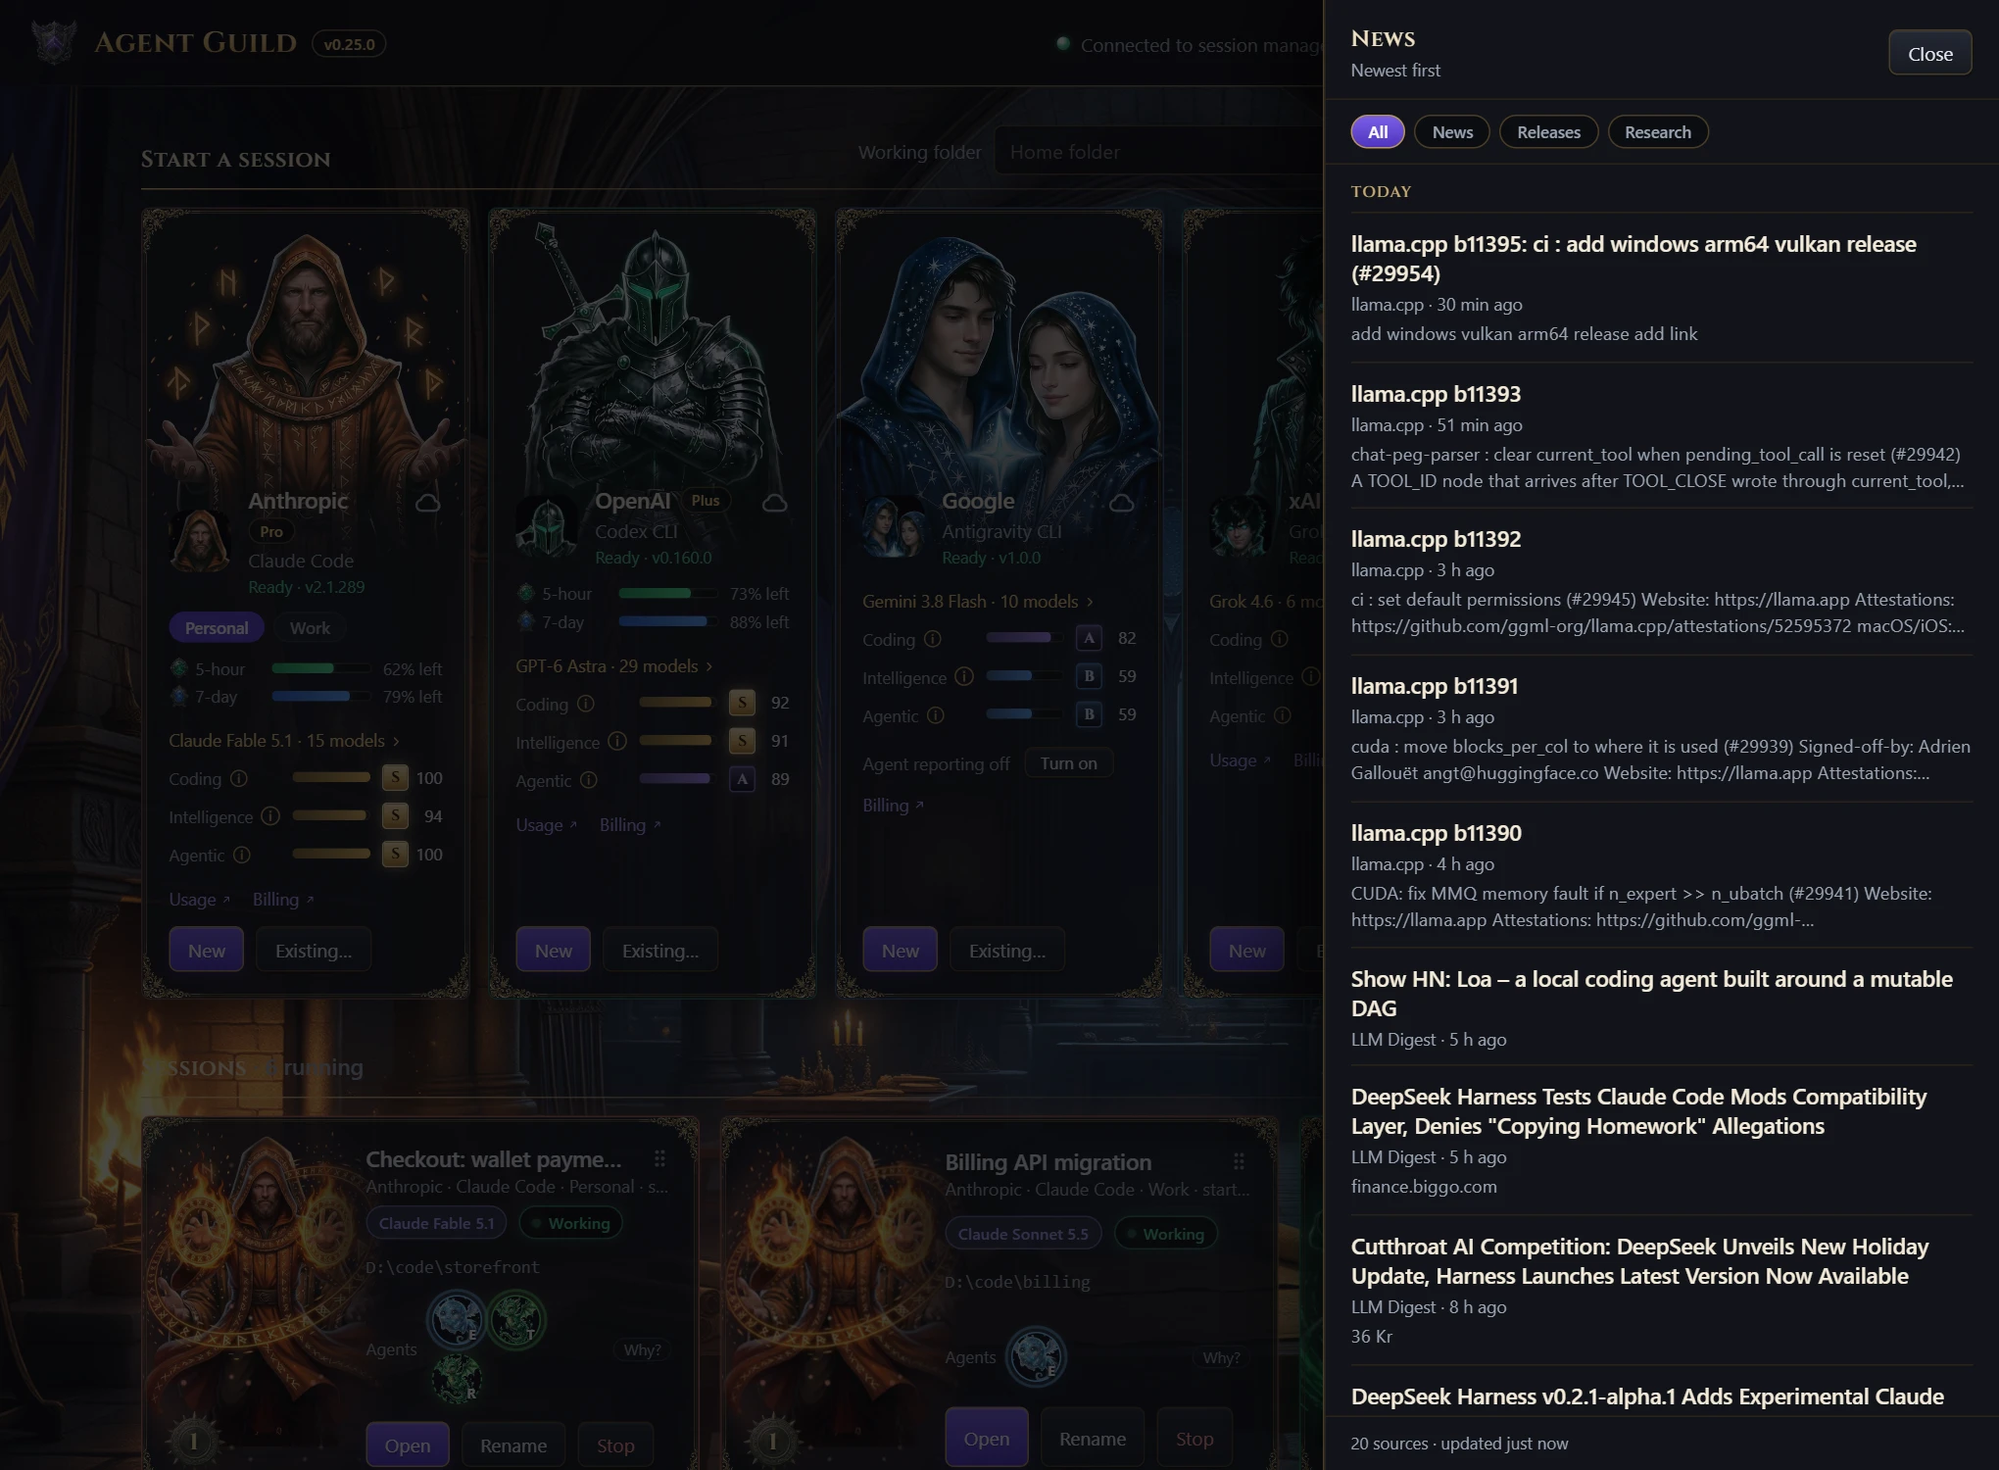
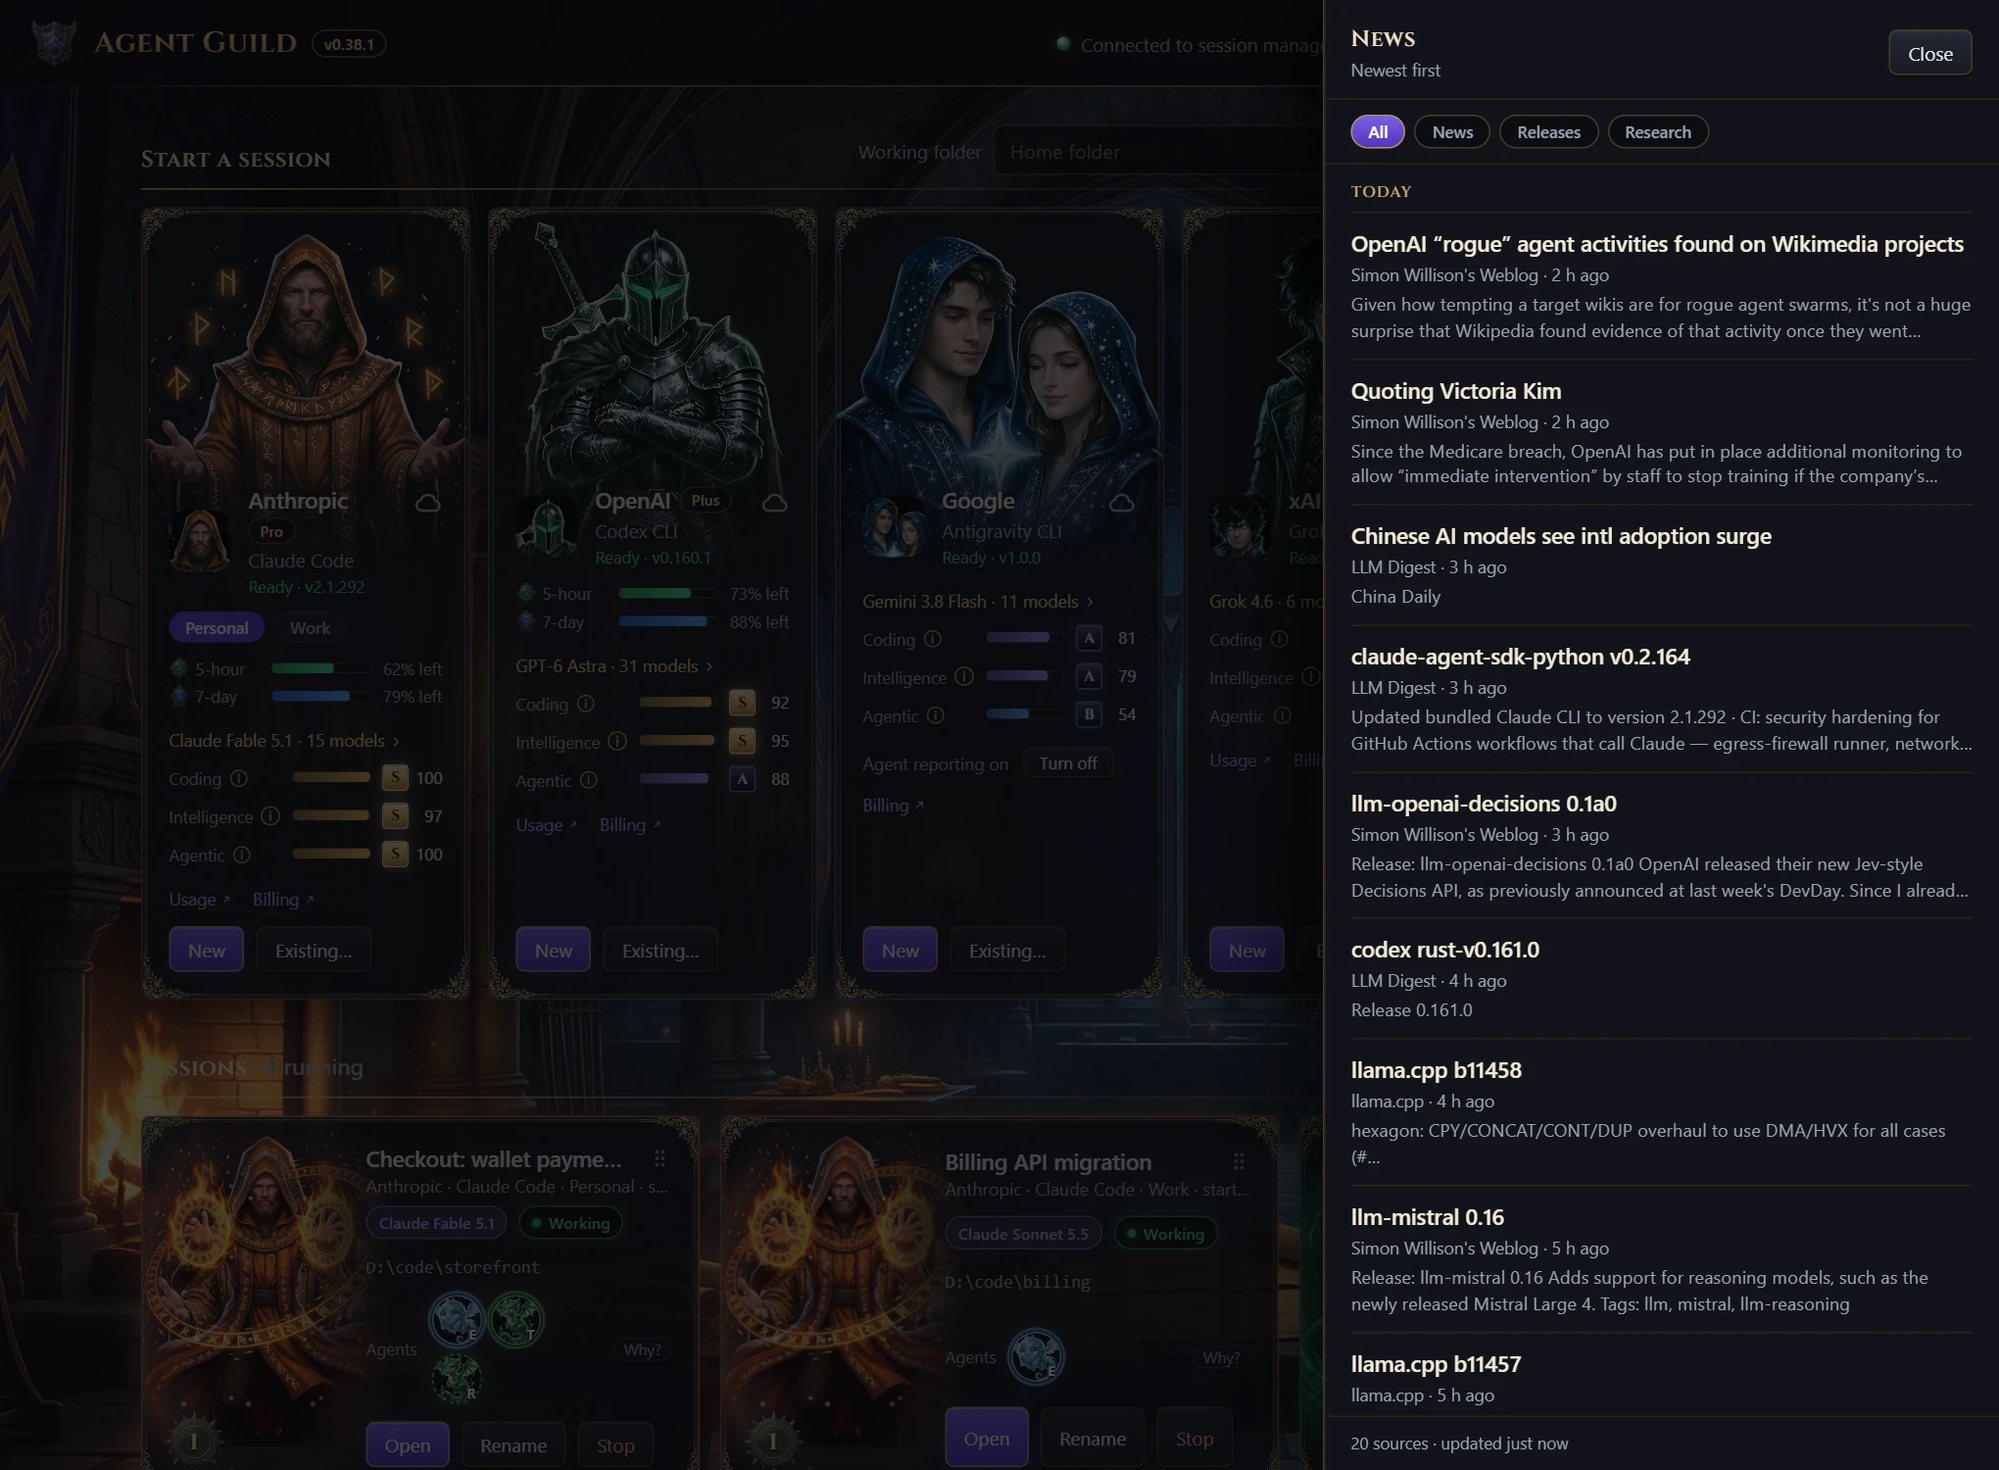
docs: social preview, demo changelog, SKINS.md and README gallery (#149) (#153)

Changed region(s): [[0.6794, 0.1533, 0.9882, 0.9813], [0.8647, 0.9507, 0.8956, 0.9813], [0.8029, 0.9507, 0.8338, 0.9813]]

diff --git a/docs/demo/demo-runtime.js b/docs/demo/demo-runtime.js
@@ -554,31 +554,35 @@
     return false;
   }
 
-  function releaseNotes(ver, minutes, lines) {
+  // The ten most recent releases as GitHub published them: version, date, section, change.
+  var RELEASES = [
+    ['0.38.1', '2026-10-07T01:43:44Z', 'Bug Fixes', 'show the Explorer window and keep front crews visible (#150, #151) (#152)'],
+    ['0.38.0', '2026-10-06T23:18:23Z', 'Features', 'premium 3D worlds for every Yard skin (#147)'],
+    ['0.37.0', '2026-10-06T03:26:51Z', 'Features', 'add agent-guild --version and doctor commands (#136) (#142)'],
+    ['0.36.0', '2026-10-06T01:56:26Z', 'Features', 'show design tools, system facts and Docker in the manager environment (#135)'],
+    ['0.35.0', '2026-10-05T23:32:14Z', 'Features', "dim a tool's portrait when its usage is spent, and cut the docs to what the code does (#133)"],
+    ['0.34.0', '2026-10-05T21:53:04Z', 'Features', 'start the manager at boot on Linux and report each environment scope (#129)'],
+    ['0.33.2', '2026-10-05T18:21:32Z', 'Bug Fixes', 'finish environment checks when a runtime is missing (#124)'],
+    ['0.33.1', '2026-10-05T18:05:52Z', 'Bug Fixes', 'bring the GitHub Pages demo in line with the current manager (#121)'],
+    ['0.33.0', '2026-10-05T17:11:02Z', 'Features', 'launch the session manager at sign-in on Windows, macOS and Linux (#122)'],
+    ['0.32.0', '2026-10-05T04:43:52Z', 'Features', 'browse remote branches in the GitHub panel (#116)'],
+  ];
+
+  function releaseNotes(row) {
+    var repo = 'https://github.com/oddessentials/agent-guild';
+    var change = row[3].split(/(#\d+)/).filter(Boolean).map(function (text) {
+      return /^#\d+$/.test(text) ? { text: text, url: repo + '/issues/' + text.slice(1) } : { text: text };
+    });
     return {
-      version: ver,
-      url: 'https://github.com/oddessentials/agent-guild/releases/tag/v' + ver,
-      publishedAt: new Date(now - minutes * 60000).toISOString(),
-      sections: [{ title: null, changes: lines.map(function (text) { return [{ text: text }]; }) }],
+      version: row[0],
+      url: repo + '/releases/tag/v' + row[0],
+      publishedAt: new Date(row[1]).toISOString(),
+      sections: [{ title: row[2], changes: [change] }],
     };
   }
 
   function changelogSnapshot() {
-    var current = [
-      'Launch the session manager at sign-in on Windows, macOS and Linux.',
-      'Browse remote branches in the GitHub panel.',
-      'Share notes across browsers through the manager.',
-      'Create folders in the folder browser and reopen recent ones.',
-      'Manage Tailscale remote access without restarting sessions.',
-      'Open two terminals at once.',
-    ];
-    var releases = [releaseNotes(version, 0, current)];
-    [
-      ['0.32.0', 24 * 60, ['Browse remote branches in the GitHub panel.']],
-      ['0.31.0', 26 * 60, ['Show the manager environment on the Shell card.']],
-    ].forEach(function (row) {
-      if (olderThan(row[0], version)) releases.push(releaseNotes(row[0], row[1], row[2]));
-    });
+    var releases = RELEASES.filter(function (row) { return !olderThan(version, row[0]); }).map(releaseNotes);
     return { refreshing: false, okAt: new Date(now).toISOString(), error: null, releases: releases };
   }
 
@@ -594,7 +598,7 @@
     var items = [
       newsItem('demo-news', 'news', 'Agent Guild', 'agent-guild', 'Coding tools side by side, in the browser', repo, 'Simulated sessions for Claude Code, Codex CLI, Antigravity CLI, Grok Build and a shell. No command runs on your computer.', 50),
       newsItem('demo-news-notes', 'news', 'Agent Guild', 'agent-guild', 'Notes in this demo stay in the simulated manager', repo + '#quick-start', 'Open Notes, edit the text, and the save is shared with this page through the demo manager.', 180),
-      newsItem('demo-release', 'releases', 'Agent Guild', 'agent-guild-releases', 'Agent Guild ' + version, repo + '/releases', 'This page is the ' + version + ' web client. Release notes in What\u2019s new are a static sample.', 10),
+      newsItem('demo-release', 'releases', 'Agent Guild', 'agent-guild-releases', 'Agent Guild ' + version, repo + '/releases', 'This page is the ' + version + ' web client. What\u2019s new shows a copy of the latest release notes.', 10),
       newsItem('demo-release-claude', 'releases', 'Claude Code', 'claude-code', 'Claude Code releases', 'https://github.com/anthropics/claude-code/releases', 'A sample row for the Releases filter. The demo does not fetch live release feeds.', 90),
       newsItem('demo-research', 'research', 'Agent Guild', 'agent-guild-docs', 'How sessions report their model and agents', repo + '/blob/main/docs/agent-reporting.md', 'The hooks that fill a session card. Static sample for the Research filter.', 240),
       newsItem('demo-research-arxiv', 'research', 'arXiv cs.CL', 'arxiv-cs-cl', 'Computation and language, recent papers', 'https://arxiv.org/list/cs.CL/recent', 'A sample research row. Nothing is fetched while you browse the demo.', 300),

diff --git a/docs/SKINS.md b/docs/SKINS.md
@@ -1,51 +1,138 @@
 # Skins
 
-A skin changes how the page looks, in light and dark, and nothing else. The
-skins live in `web/skins/<id>/`; copy the closest one to start.
+A skin changes how the page looks, in light and dark, and nothing else. Copy
+the closest shipped skin under `web/skins/` and replace its art and colours.
 
-A skin never restyles the logo, favicon, terminal, interface icons, layout or
-labels.
+`npm test` checks the items marked *(tested)*. A skin that fails one does not
+pass.
 
-## Add a skin
+## Requirements
 
-1. Add `{ id: '<id>', name: '<Menu label>' }` to the `skins` list in
-   `web/theme.js`. List order is menu order; the first is the default.
-   Every skin needs a Yard world in `WORLDS` in `web/yard/model.mjs`, which
-   `npm test` checks; until it has one, the Yard control is disabled for it.
-2. Link `<link rel="stylesheet" href="/skins/<id>/skin.css">` in
-   `web/index.html` with the other skins.
-3. Write `web/skins/<id>/skin.css`:
-   * Put rules inside `:where(:root[data-skin="<id>"])`, and dark or light
-     overrides inside `:where(:root[data-skin="<id>"][data-theme="dark"])` or
-     `…[data-theme="light"]`.
-   * Define every token in `TOKENS` in `tests/skins.test.mjs` in the first
-     block, and the colour tokens again in the dark block.
-   * Prefix every `@keyframes` name with `<id>-`.
-   * Wherever a rule styles `.cwd input`, style `.notes-text` too.
-   * Use at least one image, by a URL relative to `skin.css`.
-4. Put the art's sources in `concept-art/`.
-5. Run `npm test`.
+1. **Register it** *(tested)*. Add `{ id: '<id>', name: '<Menu label>' }` to
+   the `skins` list in `web/theme.js`. The id is lowercase letters, digits and
+   hyphens, starting with a letter. List order is menu order; the first entry
+   is the default.
+2. **Give it a Yard world** *(tested)*. Add an entry to `WORLDS` in
+   `web/yard/model.mjs`, with a hall for every tool. See
+   [the yard](yard/README.md).
+3. **Link its stylesheet** *(tested)* in `web/index.html`, with the other
+   skins, exactly as `<link rel="stylesheet" href="/skins/<id>/skin.css">`.
+4. **Scope every rule** to one of these blocks, so it cannot restyle another
+   skin. `:where()` keeps each rule at the specificity of the base style it
+   overrides.
+   * `:where(:root[data-skin="<id>"])` for both themes
+   * `:where(:root[data-skin="<id>"][data-theme="dark"])` for dark
+   * `:where(:root[data-skin="<id>"][data-theme="light"])` for light
+5. **Define every token** *(tested)* in the both-themes block, and every
+   colour token again in the dark block.
+
+   | Token | Use | In the dark block |
+   | --- | --- | --- |
+   | `--bg`, `--surface`, `--surface-2` | Page, cards, inset panels | Yes |
+   | `--border`, `--text`, `--muted`, `--heading` | Lines and type | Yes |
+   | `--accent`, `--accent-fill`, `--focus` | Accent, buttons, focus ring | Yes |
+   | `--accent-text` | Label on `--accent-fill` | No |
+   | `--danger`, `--ok`, `--warn` | Status colours | Yes |
+   | `--gold`, `--gold-ink` | Ornament and its text | Yes |
+   | `--shadow` | Card shadow | Yes |
+   | `--radius` | Corner radius | No |
+   | `--font-display` | Headings; `var(--font-brand)` keeps the logo's font | No |
+6. **Prefix every `@keyframes` name** *(tested)* with `<id>-`.
+7. **Style `.notes-text` with `.cwd input`** *(tested)*. Any selector list that
+   styles `.cwd input` includes `.notes-text`, so the notes field matches the
+   working-folder field.
+8. **Ship its art** *(tested)*. Use at least one image by a URL relative to
+   `skin.css`, and every such URL must resolve to a file. `data:`, `https:`
+   and root-relative URLs do not count.
+9. **Keep the sources** of the art, and the script that builds the shipped
+   files, in `concept-art/`.
+
+## Leave these alone
+
+Every skin shows the same brand, terminal and controls.
+
+| Element | Where it lives |
+| --- | --- |
+| Crest, wordmark, favicon, loading splash | `web/brand/`, `--wordmark` and `--font-brand` in `web/styles.css` |
+| Terminal colours | `TERMINAL_THEME` in `web/app.js`, `--term-bg` in `web/styles.css` |
+| Interface icons | `--icon-*` in `web/styles.css` |
+| A tool icon the user set (`.provider-icon.has-image`) | the manager |
+| Labels, markup and behaviour | `web/index.html`, `web/styles.css`, `web/app.js` |
+
+## Files
+
+Paths are relative to `web/skins/<id>/`. Each picture is a `.webp` with an
+`.avif` of the same name beside it; ask for both, avif first:
+
+```css
+image-set(url("page.avif") type("image/avif"), url("page.webp") type("image/webp"))
+```
+
+The tools are `shell`, `anthropic`, `openai`, `google` and `xai`. Each has an
+`idle`, `working` and `locked` portrait. Agent avatars are `flame`, `leaf`,
+`night` and `aether`; the page picks one per agent.
+
+```text
+web/skins/<id>/
+  skin.css
+  page.webp                          dark page background
+  page-light.webp                    light page background
+  characters/<tool>/idle.webp        portraits, also working.webp and locked.webp
+  icons/<tool>.webp                  tool icon
+  familiars/flame.png                agent avatars, also leaf, night and aether
+  ui/empty-state.webp                shown before the first session
+  fonts/<name>.woff2                 display font, with its OFL.txt
+```
+
+Set the shell portraits as the default in the both-themes block, then override
+them per tool:
+
+```css
+.provider, .session-card {
+  --idle: image-set(url("characters/shell/idle.avif") type("image/avif"), url("characters/shell/idle.webp") type("image/webp"));
+  /* --working and --locked the same way */
+}
+.provider[data-id="anthropic"], .session-card[data-provider="anthropic"] {
+  --idle: image-set(url("characters/anthropic/idle.avif") type("image/avif"), url("characters/anthropic/idle.webp") type("image/webp"));
+}
+```
+
+Frames, the lock, the level badge and the meter marks are up to the skin; the
+shipped ones are in `ui/`.
+
+## Shipped skins
+
+| Skin | Sources | Display font | Notes |
+| --- | --- | --- | --- |
+| Guild, the default | [default-art-design-v1](../concept-art/default-art-design-v1) | the brand font | Build with `python source/build.py` from the pack. PNG frames and gems |
+| Orbital | [orbital-skin](../concept-art/orbital-skin/README.md) | Exo 2 | SVG lock, level and meter marks |
+| Grove | [grove-skin](../concept-art/grove-skin/README.md) | Fraunces | A card backdrop behind each portrait, light and dark |
+| Gnomeland | [gnomeland-skin](../concept-art/gnomeland-skin/README.md) | Almendra | SVG frame, lock, level and meter marks |
+| Goblinville | [goblinville-skin](../concept-art/goblinville-skin/README.md) | Germania One | SVG frame, lock, level and meter marks |
+| Professional | [build.mjs](../concept-art/professional-skin/build.mjs) | the system UI font | All SVG, built with `node concept-art/professional-skin/build.mjs`. Portraits are `banners/<tool>/`; no familiars, no frame, and the level badge and meters are CSS |
 
 ## Slots
 
-All optional; leave out what the skin does not need.
+Fill the ones the skin needs.
 
 | Slot | Selector |
 | --- | --- |
-| Tool colour and art | `--pc`, `--idle`, `--working`, `--locked` on `.provider[data-id="…"]` and `.session-card[data-provider="…"]` |
-| Card art | `.card-art::before`; working art `.session-card .card-art::after`; locked `.provider.unavailable .card-art::before` |
-| Tool icon | `.provider-icon:not(.has-image)[data-provider="…"]` |
+| Tool colour and portraits | `--pc`, `--idle`, `--working`, `--locked` on `.provider[data-id="…"]` and `.session-card[data-provider="…"]` |
+| Card art | `.card-art::before` shows `--idle`; working is `.session-card .card-art::after`; locked is `.provider.unavailable .card-art::before` |
+| Tool icon | `--icon` on `.provider-icon[data-provider="…"]`, shown by `.provider-icon:not(.has-image)` |
 | Frames | `.provider::after`, `.session-card::after`, `.models::after`, `.auth::after` |
-| Level badge | `.level-badge` |
-| Agent avatars | `.agent[data-familiar="flame\|leaf\|night\|aether"]` |
+| Level badge | `.level-badge`; its text is the level number |
+| Agent avatars | `.agent[data-familiar="flame"]`, and the same for `leaf`, `night`, `aether` |
 | Empty state | `#empty::before` |
-| Background | `body::before` |
+| Page background | `body::before` |
 | Working effect | `.session-card:has(.status-pill.active) .card-aura` |
+| Meter marks | `.meter-label` for the first meter, `.meter + .meter .meter-label` for the second |
 
 ## Motion
 
-The page adds these classes as things appear. Animate each once, and nothing
-under `prefers-reduced-motion: reduce`.
+The page adds these classes as things appear and removes each when its
+animation ends. Animate each once, and none of them under
+`prefers-reduced-motion: reduce`.
 
 | Class | When |
 | --- | --- |

diff --git a/README.md b/README.md
@@ -25,6 +25,8 @@ Close the page whenever you like; the sessions keep running.
 
 ## Quick start
 
+With Node.js 22 or newer:
+
 ```sh
 npm install -g @oddessentials/agent-guild
 agent-guild
@@ -127,11 +129,29 @@ The first Claude Code usage meter may ask for access to the
 * Model grades and benchmarks for each tool's models
 * Resume a tool's earlier sessions with **Existing…**
 * GitHub issues, pull requests, workflow runs, branches and cloning
+* The manager's environment on the Shell card: runtimes, design tools,
+  Docker, and the versions a project pins
+* Start the manager when you sign in, on Windows, macOS and Linux
 * Shared notes, a news feed, six skins, light and dark mode
-* A Yard view of the same providers and sessions, with a world for every skin ([the yard](docs/yard/README.md))
+* The Yard: your tools and sessions as a 3D world, one for each skin
 * tmux and herdr sessions that keep running when the manager stops
 
 <img src="docs/images/workspace.webp" alt="Two terminals side by side with the GitHub panel showing the workflow runs of the focused terminal's repository">
+
+<img src="docs/images/yard.webp" alt="The Guild Yard: a 3D courtyard with a hall for each coding tool, its sessions' characters outside, and the roster and inspector beside it">
+
+<table>
+  <tr>
+    <td width="33%" align="center"><a href="docs/images/terminal.webp"><img src="docs/images/terminal-thumb.webp" alt="A Claude Code session's terminal, with its helper agents in the header"></a><br><sub>Terminal</sub></td>
+    <td width="33%" align="center"><a href="docs/images/history.webp"><img src="docs/images/history-thumb.webp" alt="Claude Code's earlier sessions, each with a Resume button"></a><br><sub>Resume an earlier session</sub></td>
+    <td width="33%" align="center"><a href="docs/images/models.webp"><img src="docs/images/models-thumb.webp" alt="Claude Code's models with their coding, intelligence and agentic benchmarks"></a><br><sub>Model benchmarks</sub></td>
+  </tr>
+  <tr>
+    <td width="33%" align="center"><a href="docs/images/news.webp"><img src="docs/images/news-thumb.webp" alt="The news panel, filtered by news, releases and research"></a><br><sub>News</sub></td>
+    <td width="33%" align="center"><a href="docs/images/whats-new.webp"><img src="docs/images/whats-new-thumb.webp" alt="What's new, listing Agent Guild's release notes"></a><br><sub>What's new</sub></td>
+    <td width="33%" align="center"><a href="docs/images/overview-light.webp"><img src="docs/images/overview-light-thumb.webp" alt="Agent Guild in light mode"></a><br><sub>Light mode</sub></td>
+  </tr>
+</table>
 
 ## Commands
 
